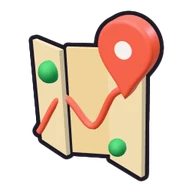
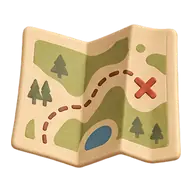
Los 48 iconos del autor en todo el juego
- Recortados de las tres láminas, fondo casi transparente limpiado, a 192 px y con el mismo margen que los demás (src/assets/icons3d): sustituyen al icono de su nombre en menús, fichas, mochila y tarjetas
- Botones del HUD y táctiles con la misma familia: mochila, mapa, menú, prismáticos, la bota para correr, las flechas para saltar y, en el de acción, la mano, hablar, beber, mirar y pelota
- Sobre el degradado de los botones principales, el icono lleva un contorno oscuro fino para leerse
- Comprimidos para que el archivo único siga dentro de su límite: 31.304.577 bytes

Claude-Session: https://claude.ai/code/session_01LP3syHb7415C8M5w3wgHaS

diff --git a/src/style.css b/src/style.css
@@ -180,7 +180,7 @@ summary { line-height: 1.3; }
 .rbtns { display: flex; gap: 8px; }
 .round { position: relative; width: 44px; height: 44px; border-radius: 50%; display: grid; place-items: center; background: rgba(14, 10, 24, .66); border: 2px solid rgba(255, 255, 255, .82); box-shadow: 0 3px 12px rgba(0, 0, 0, .35), inset 0 1px 0 rgba(255, 255, 255, .15); backdrop-filter: blur(4px); -webkit-backdrop-filter: blur(4px); transition: transform .12s, background .12s, border-color .12s; }
 .round:hover { border-color: #ff7ac8; background: rgba(12, 9, 20, .65); } .round:active { transform: scale(.92); }
-.round svg { width: 26px; height: 26px; filter: drop-shadow(0 1px 1px rgba(0, 0, 0, .6)); }
+.round :is(svg, .hico) { width: 26px; height: 26px; filter: drop-shadow(0 1px 1px rgba(0, 0, 0, .6)); }
 .round.badge::after { content: ''; position: absolute; width: 10px; height: 10px; border-radius: 50%; background: #FF69B4; top: -1px; right: -1px; }
 #mini { width: 112px; height: 112px; border-radius: 50%; overflow: hidden; position: relative; background: #5b8a3c; cursor: pointer; border: 2.5px solid #fff; box-shadow: 0 0 0 4px rgba(12, 9, 20, .45), 0 6px 18px rgba(0, 0, 0, .35); }
 #mini canvas { width: 100%; height: 100%; display: block; }
@@ -210,12 +210,12 @@ summary { line-height: 1.3; }
 #cRun { grid-column: 1; grid-row: 2; }
 #cAct { grid-column: 2; grid-row: 2; }
 .cbtn { position: relative; width: 62px; height: 62px; border-radius: 50%; padding: 0; background: radial-gradient(circle at 50% 30%, rgba(80, 40, 150, .82), rgba(28, 11, 58, .88)); border: 2.5px solid #fff; display: flex; flex-direction: column; align-items: center; justify-content: center; gap: 1px; color: #fff; box-shadow: 0 0 0 3px rgba(138, 43, 226, .45), 0 5px 0 rgba(10, 4, 24, .55), 0 8px 16px rgba(0, 0, 0, .3); transition: transform .1s, background .15s, box-shadow .15s, opacity .2s; -webkit-tap-highlight-color: transparent; }
-.cbtn svg { width: 40px; height: 40px; flex: none; overflow: visible; filter: drop-shadow(0 2px 0 rgba(0, 0, 0, .35)); }
+.cbtn :is(svg, .hico) { width: 40px; height: 40px; flex: none; overflow: visible; filter: drop-shadow(0 2px 0 rgba(0, 0, 0, .35)); }
 .cbtn b { font: 900 var(--fs-xs)/1 Nunito, sans-serif; letter-spacing: .04em; text-transform: uppercase; color: #fff; text-shadow: 0 1px 0 #1f1a26; white-space: nowrap; }
 .cbtn:active { transform: translateY(3px) scale(.95); box-shadow: 0 0 0 3px rgba(138, 43, 226, .45), 0 2px 0 rgba(10, 4, 24, .55), 0 4px 10px rgba(0, 0, 0, .3); }
 .cbtn.on { background: radial-gradient(circle at 50% 30%, #ff9d8a, #ff2e88 70%); box-shadow: 0 0 0 3px rgba(255, 122, 200, .8), 0 5px 0 rgba(120, 30, 10, .6), 0 0 18px rgba(255, 99, 71, .6); }
 .cbtn.big { width: 80px; height: 80px; background: radial-gradient(circle at 50% 30%, #ffc2ec, #ff7ac8 60%, #ff3dbd); box-shadow: 0 0 0 4px rgba(255, 122, 200, .35), 0 5px 0 #8a1c8f, 0 10px 22px rgba(0, 0, 0, .35); animation: actPulse 1.6s ease-in-out infinite; }
-.cbtn.big svg { width: 50px; height: 50px; }
+.cbtn.big :is(svg, .hico) { width: 50px; height: 50px; }
 .cbtn.big b { font-size: var(--fs-xs); color: #2a0638; text-shadow: 0 1px 0 rgba(255, 255, 255, .6); }
 .cbtn.big.off { background: radial-gradient(circle at 50% 30%, rgba(80, 40, 150, .7), rgba(28, 11, 58, .8)); box-shadow: 0 0 0 3px rgba(138, 43, 226, .35), 0 5px 0 rgba(10, 4, 24, .5), 0 8px 16px rgba(0, 0, 0, .25); animation: none; }
 .cbtn.big.off svg { opacity: .55; }
@@ -276,8 +276,8 @@ summary { line-height: 1.3; }
   #quest b.qt { font-size: var(--fs-md); } #quest .ic { flex-basis: 36px; height: 36px; } #quest .ic svg, #quest .ic img { width: 26px; height: 26px; }
   #ribbons { padding-left: 48px; }
   #mini { width: 92px; height: 92px; }
-  .round { width: 38px; height: 38px; } .round svg { width: 23px; height: 23px; }
-  .cbtn { width: 56px; height: 56px; } .cbtn svg { width: 36px; height: 36px; } .cbtn.big { width: 70px; height: 70px; } .cbtn.big svg { width: 44px; height: 44px; }
+  .round { width: 38px; height: 38px; } .round :is(svg, .hico) { width: 23px; height: 23px; }
+  .cbtn { width: 56px; height: 56px; } .cbtn :is(svg, .hico) { width: 36px; height: 36px; } .cbtn.big { width: 70px; height: 70px; } .cbtn.big :is(svg, .hico) { width: 44px; height: 44px; }
   #stickHint { width: 88px; height: 88px; bottom: calc(var(--sb) + var(--thumb) + 18px); }
   #lane { top: auto; bottom: calc(var(--sb) + var(--thumb)); left: calc(50% - 22px); width: calc(100vw - var(--sl) - var(--sr) - 450px); flex-direction: column-reverse; } #lane .note { font-size: var(--fs-sm); padding: 8px 12px; } #toast svg, #toast img { width: 22px; height: 22px; }
   #dialog { padding: 8px 16px; } #dialog p { font-size: var(--fs-md); min-height: 40px; }
@@ -409,7 +409,7 @@ body.bino-on #lane { display: none; }
   .qitem b { font-size: var(--fs-md); }
 }
 @media (max-width: 380px) {
-  .cbtn { width: 56px; height: 56px; } .cbtn svg { width: 35px; height: 35px; } .cbtn.big { width: 68px; height: 68px; } .cbtn.big svg { width: 43px; height: 43px; } #controls { gap: 8px; right: calc(var(--sr, 0px) + var(--thumb)); }
+  .cbtn { width: 56px; height: 56px; } .cbtn :is(svg, .hico) { width: 35px; height: 35px; } .cbtn.big { width: 68px; height: 68px; } .cbtn.big :is(svg, .hico) { width: 43px; height: 43px; } #controls { gap: 8px; right: calc(var(--sr, 0px) + var(--thumb)); }
   #stickHint { width: 92px; height: 92px; left: calc(var(--sl, 0px) + var(--thumb)); }
   .round { width: 40px; height: 40px; }
   #quest b.qt { font-size: var(--fs-md); }
@@ -502,6 +502,9 @@ body.bino-on #lane { display: none; }
 
 /* iconos 3D que se dibujan en segundo plano: aparecen con un fundido cuando están listos */
 img.ico3d.pend { opacity: 0; }
+/* sobre el degradado rosa y morado de los botones principales, el icono lleva un contorno oscuro fino: así el
+   triángulo de jugar y los demás se leen igual que sobre el fondo oscuro */
+:is(.gx-go, .btn.primary) img.ico3d { filter: drop-shadow(0 0 1px rgba(20, 6, 46, .95)) drop-shadow(0 1px 2px rgba(20, 6, 46, .6)); }
 
 img[data-pk] { opacity: 0; }
 /* durante un diálogo el carril de avisos sube arriba, bajo el objetivo, para no tapar la conversación */
@@ -589,11 +592,11 @@ body.mg3d-on .learn-btn { bottom: auto; top: calc(env(safe-area-inset-top, 0px) 
   #quest .ic { flex-basis: 50px; height: 50px; } #quest .ic svg, #quest .ic img { width: 36px; height: 36px; }
   #quest b.qt { font-size: var(--fs-md); } #quest small { font-size: var(--fs-sm); }
   #ribbons { padding-left: 60px; } #ribbons .tname { font-size: var(--fs-sm); } #ribbons .dots i { width: 12px; height: 12px; }
-  .round { width: 54px; height: 54px; } .round svg { width: 32px; height: 32px; }
+  .round { width: 54px; height: 54px; } .round :is(svg, .hico) { width: 32px; height: 32px; }
   #topright { gap: 12px; }
   #mini { width: 140px; height: 140px; }
-  .cbtn { width: 72px; height: 72px; } .cbtn svg { width: 46px; height: 46px; }
-  .cbtn.big { width: 92px; height: 92px; } .cbtn.big svg { width: 58px; height: 58px; }
+  .cbtn { width: 72px; height: 72px; } .cbtn :is(svg, .hico) { width: 46px; height: 46px; }
+  .cbtn.big { width: 92px; height: 92px; } .cbtn.big :is(svg, .hico) { width: 58px; height: 58px; }
   #stick { width: 140px; height: 140px; } #stick i { width: 64px; height: 64px; margin: -32px 0 0 -32px; }
   #stickHint { width: 120px; height: 120px; } #stickHint i { width: 48px; height: 48px; } #stickHint span { font-size: var(--fs-sm); }
   #dialog { width: min(880px, calc(100vw - 24px)); padding: 16px 24px 16px; }

diff --git a/src/ui.js b/src/ui.js
@@ -1,10 +1,11 @@
 // Interfaz en partida: HUD, diálogos con retrato, cuaderno, mapa, menú, premios, prismáticos y ritmo.
-// Todos los iconos son dibujos propios (src/ui/icons.js).
+// Todos los iconos son de la familia del juego: los horneados (src/assets/icons3d) y, si falta alguno, los dibujos de src/ui/icons.js.
 import { RIBBONS, QUESTS, CARDS, SPECIES_OBS, EGUZKILORES } from './game/content.js';
 import { HALF, N, PLACES } from './world/layout.js';
 import { H, SURF } from './world/heightfield.js';
 import { clamp } from './util/math.js';
 import { iconSVG, iconImage } from './ui/icons.js';
+import { icon3DReady } from './ui/icon3d.js';
 import { portraitImg } from './ui/portraits.js';
 import { mountMapView } from './ui/mapview.js';
 import { buildMapVectorsIdle } from './ui/mapvector.js';
@@ -32,6 +33,12 @@ const ICON = {
   drop: '<svg viewBox="0 0 24 24" stroke="#1f1a26" stroke-width="1.5" stroke-linejoin="round"><g transform="translate(0 0.25)"><path d="M12 2.2c3.6 4.7 6.8 8.5 6.8 12.3a6.8 6.8 0 01-13.6 0c0-3.8 3.2-7.6 6.8-12.3z" fill="#7fd6ff"/><path d="M9 14.8a3 3 0 002.2 3" fill="none" stroke="#fff" stroke-width="1.8" stroke-linecap="round"/></g></svg>',
   look: '<svg viewBox="0 0 24 24" stroke="#1f1a26" stroke-width="1.5" stroke-linejoin="round"><g transform="translate(-0.35 -0.4)"><path d="M14.4 16.6l2.1-2.1 5.1 5.1a1.5 1.5 0 01-2.1 2.1z" fill="#ff7ac8"/><circle cx="9.8" cy="9.8" r="7" fill="#fff"/><circle cx="9.8" cy="9.8" r="4.4" fill="#cfefff"/><path d="M7.6 7.8a3 3 0 012.4-1.4" fill="none" stroke="#fff" stroke-width="1.6" stroke-linecap="round"/></g></svg>',
 };
+
+// los botones del HUD y los táctiles llevan los iconos de la familia del juego (src/assets/icons3d): mapa, menú,
+// prismáticos, cuaderno, correr (la bota), saltar, y en el botón de acción la mano, hablar, beber, mirar y pelota.
+// Si faltara alguno, se queda el dibujo de antes.
+{ const IMG = (n) => { const u = icon3DReady(n); return u ? `<img class="hico" src="${u}" alt="" aria-hidden="true">` : null; };
+  for (const [k, n] of [['map', 'map'], ['menu', 'menu'], ['bino', 'binoculars'], ['book', 'book'], ['run', 'boot'], ['jump', 'jump'], ['hand', 'hand'], ['talk', 'talk'], ['wave', 'hand'], ['drop', 'water'], ['look', 'search'], ['pelota', 'pelota']]) ICON[k] = IMG(n) || ICON[k]; }
 
 export class UI {
   constructor(input, sound) {

diff --git a/ARQUITECTURA.md b/ARQUITECTURA.md
@@ -96,6 +96,10 @@ cuando cambie la estructura. Las copias de seguridad son ramas de git `copia-AAA
   portadas anteriores, con el personaje del jugador delante, están guardadas en `tools/portadas-anteriores`.
 - **Iconografía de una sola familia:** un archivo `src/assets/icons3d/<nombre>.webp` sustituye al icono de ese nombre
   sin tocar el código (`has3D` mira también los archivos horneados).
+  - Los 48 iconos del autor (controles, exploración, naturaleza, cultura y deportes) están ya ahí, a 192 px, con el
+    mismo margen que los demás. Los botones del HUD y los táctiles los usan también (`ICON` en `ui.js`): la bota para
+    correr, las flechas para saltar y, en el de acción, la mano, hablar, beber, mirar y pelota. Sobre el degradado de
+    los botones principales llevan un contorno oscuro fino.
 - **Comentarios en castellano**, explicando el porqué.
 
 ## Herramientas y pruebas (`tools/`)
